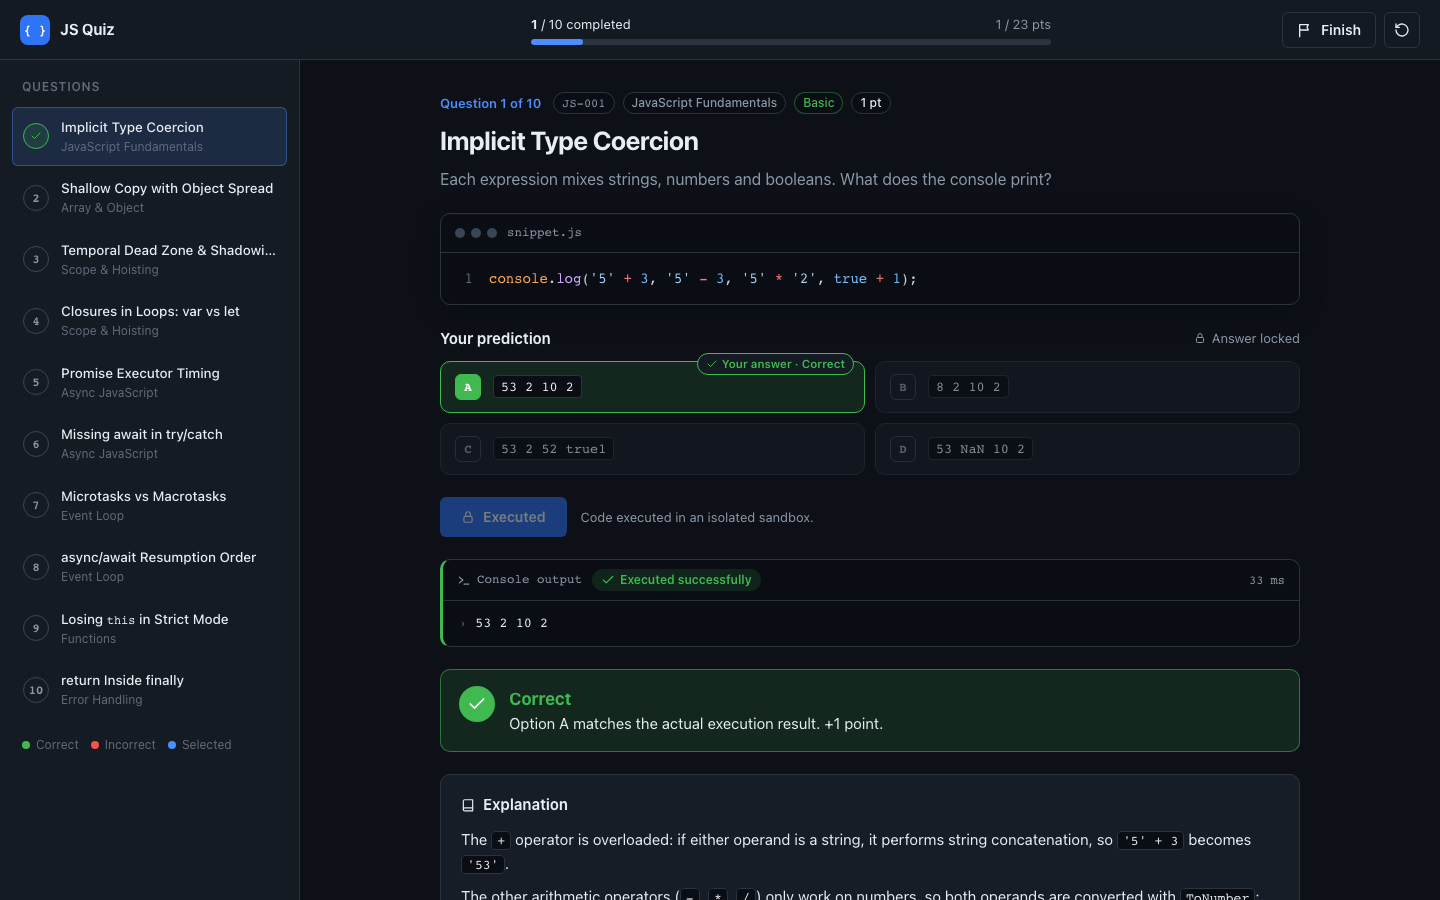
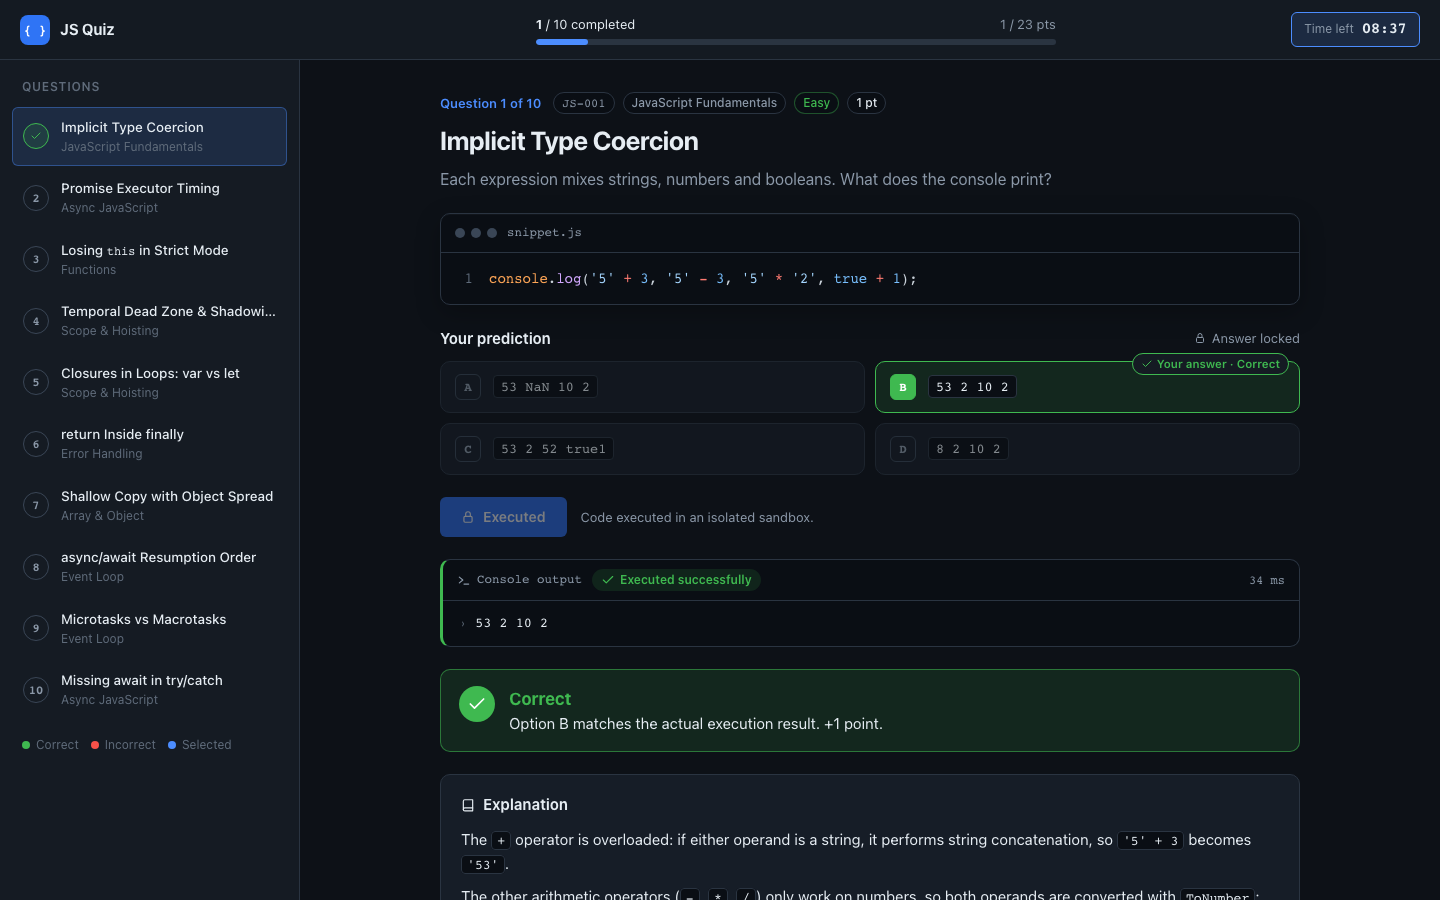
Update JS Quiz page and privacy policy for the timed assessment
JS Quiz now runs a 5-minute preparation, a 5/10/15-minute timed quiz,
shuffles questions and options per session, scores by Easy/Medium/Hard,
and ends with an accuracy-based result and an interviewer summary. Its
session is kept in localStorage instead of sessionStorage.

- Rewrite the how-it-works steps, scoring section, limitations, privacy
  notes and FAQ to match; add a Fair play section; rename difficulty
  levels; refresh the feature list, hero facts and screenshot.
- Privacy policy: JS Quiz stores its session in local storage (until a
  new quiz, or a day after it finishes) and checks tab visibility only to
  count tab switches.
- Tool registry highlights updated.

diff --git a/src/data/tools.ts b/src/data/tools.ts
@@ -55,10 +55,10 @@ export const tools: Tool[] = [
     pagePath: '/tools/js-quiz/',
     sourceUrl: 'https://github.com/batosayjeycode/allofcode-js-quiz',
     highlights: [
-      '10 questions on coercion, scope, closures, promises and the event loop',
+      '10 questions on coercion, scope, closures, promises and the event loop, shuffled per session',
       'Your answer is checked against the real output of the code, not a stored string',
-      'Code runs in a throwaway Web Worker with network access disabled and a 3 s timeout',
-      'Scored summary at the end, with an explanation after every question',
+      'Timed: 5 minutes to read the questions, then 5, 10 or 15 minutes to answer',
+      'Result with accuracy, a per-question review and a rule-based interviewer summary',
     ],
     tags: ['JavaScript', 'Event loop', 'Interview prep', 'Browser-only'],
   },
